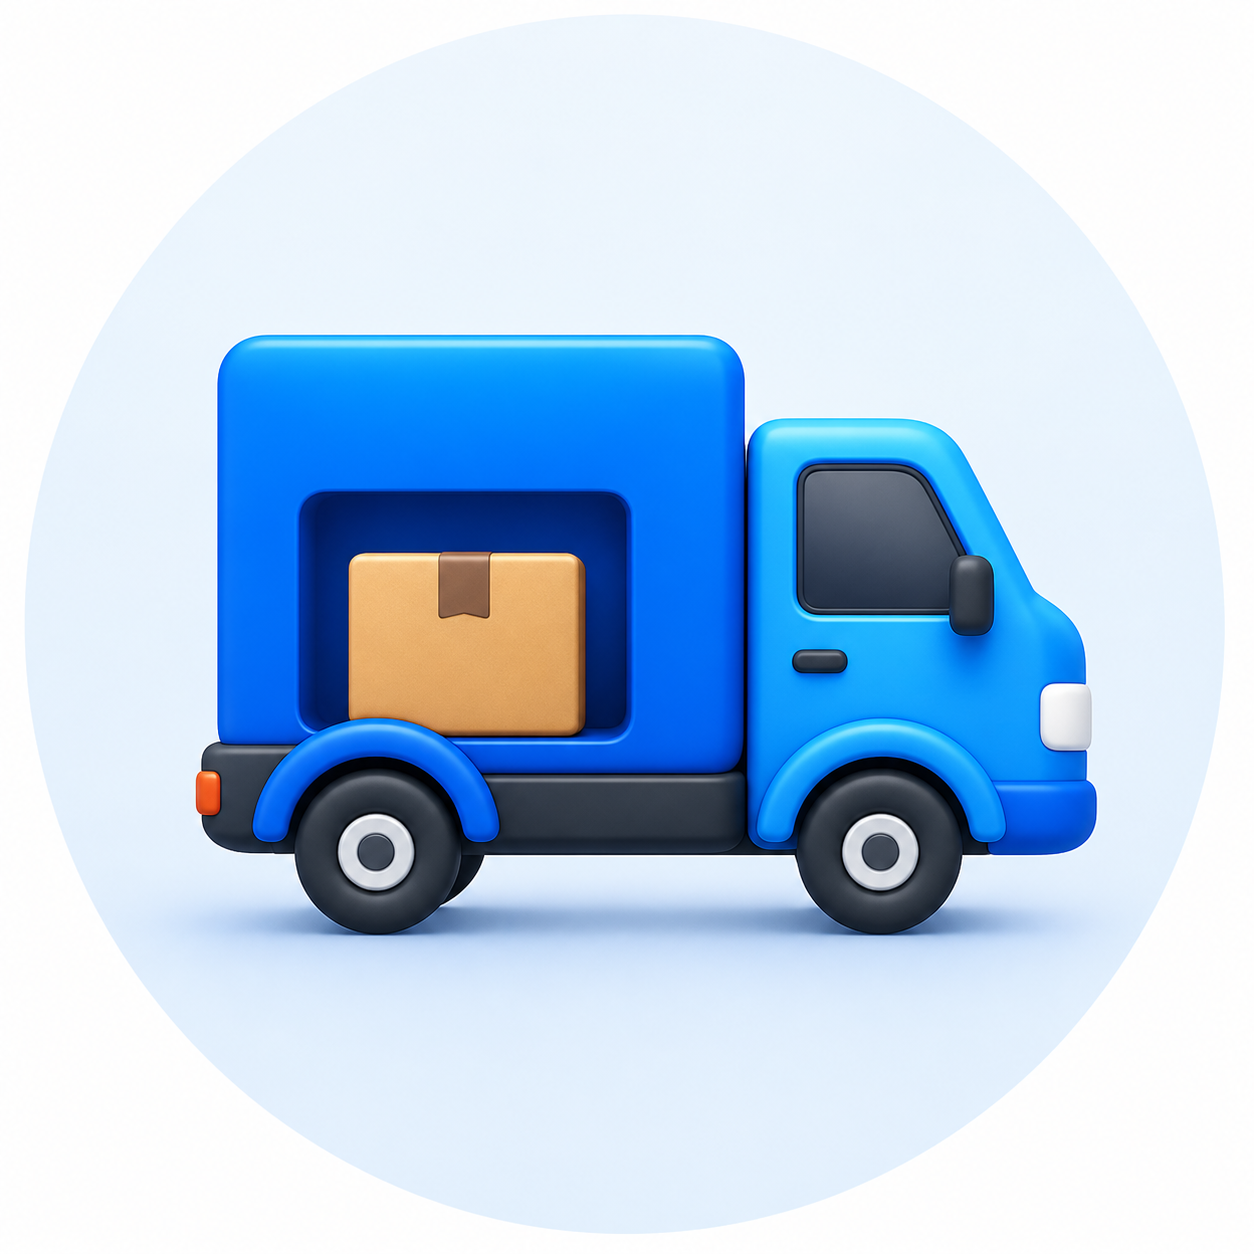
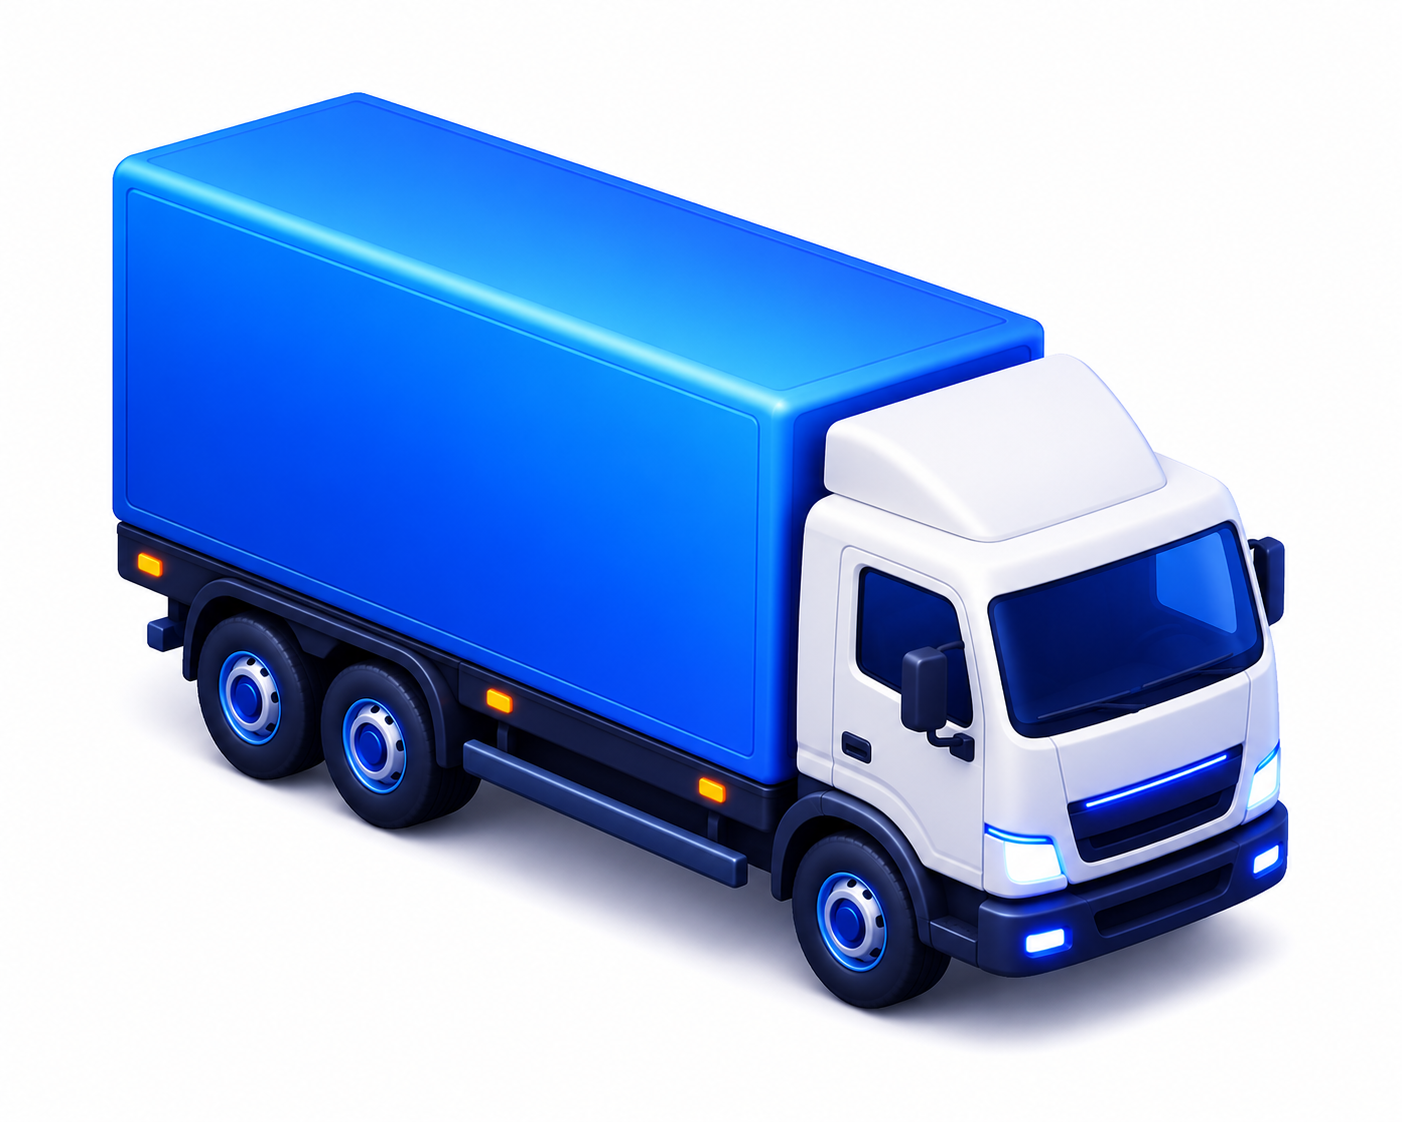
imprOve chwi design

diff --git a/lib/src/features/home/pages/home_page.dart b/lib/src/features/home/pages/home_page.dart
@@ -23,10 +23,10 @@ class _HomePageState extends State<HomePage> {
   Timer? _bannerTimer;
 
   final List<String> _banners = [
-    'assets/imagesss/IMG_0046.PNG', // 0 - Parcel (first)
+    'assets/imagesss/rafik-secure-tracking-banner.png',
+    'assets/imagesss/IMG_0046.PNG',
     'assets/imagesss/rafik-port-delivery-banner.png',
     'assets/imagesss/rafik-nationwide-delivery-banner.png',
-    'assets/imagesss/rafik-secure-tracking-banner.png',
   ];
 
   @override
@@ -257,6 +257,14 @@ class _HomePageState extends State<HomePage> {
                               },
                             ),
                             _buildServiceItem(
+                              'assets/imagesss/IMG_0080.PNG',
+                              'Fourgon',
+                            ),
+                            _buildServiceItem(
+                              'assets/imagesss/IMG_0044.PNG',
+                              'Colis',
+                            ),
+                            _buildServiceItem(
                               'assets/imagesss/food icon.PNG',
                               'Food',
                               onTap: () {
@@ -268,6 +276,12 @@ class _HomePageState extends State<HomePage> {
                                 );
                               },
                             ),
+                          ],
+                        ),
+                        const SizedBox(height: 20),
+                        Row(
+                          crossAxisAlignment: CrossAxisAlignment.start,
+                          children: [
                             _buildServiceItem(
                               'assets/imagesss/IMG_0038.PNG',
                               'Taxi',
@@ -285,19 +299,9 @@ class _HomePageState extends State<HomePage> {
                               'assets/imagesss/IMG_0039.PNG',
                               'Supermarket',
                             ),
-                          ],
-                        ),
-                        const SizedBox(height: 20),
-                        Row(
-                          crossAxisAlignment: CrossAxisAlignment.start,
-                          children: [
                             _buildServiceItem(
                               'assets/imagesss/IMG_0040.PNG',
                               'Home Service',
-                            ),
-                            _buildServiceItem(
-                              'assets/imagesss/IMG_0044.PNG',
-                              'Parcel\nDelivery',
                             ),
                             _buildServiceItem(
                               'assets/imagesss/IMG_0041.PNG',
@@ -312,10 +316,6 @@ class _HomePageState extends State<HomePage> {
                                 );
                               },
                             ),
-                            _buildServiceItem(
-                              'assets/imagesss/IMG_0042.PNG',
-                              'Bricolage\n(DIY)',
-                            ),
                           ],
                         ),
                         const SizedBox(height: 20),
@@ -323,11 +323,14 @@ class _HomePageState extends State<HomePage> {
                           crossAxisAlignment: CrossAxisAlignment.start,
                           children: [
                             _buildServiceItem(
+                              'assets/imagesss/IMG_0042.PNG',
+                              'Bricolage\n(DIY)',
+                            ),
+                            _buildServiceItem(
                               'assets/imagesss/IMG_0045.PNG',
                               'Plumbing',
                             ),
                             _buildServiceItem('', 'More', isCustomMore: true),
-                            const Expanded(child: SizedBox()),
                             const Expanded(child: SizedBox()),
                           ],
                         ),
@@ -779,7 +782,7 @@ class _HomePageState extends State<HomePage> {
 
   Map<String, String>? _bannerText(int index) {
     switch (index) {
-      case 0:
+      case 1:
         return {
           'title': 'توصيل السلع\nبين الولايات',
           'subtitle': 'في كامل الجزائر',

diff --git a/lib/src/features/onboarding/pages/onboarding_page.dart b/lib/src/features/onboarding/pages/onboarding_page.dart
@@ -111,30 +111,40 @@ class _OnboardingPageState extends State<OnboardingPage> {
                     ),
                     Padding(
                       padding: const EdgeInsets.fromLTRB(30, 16, 30, 12),
-                      child: Column(
-                        mainAxisSize: MainAxisSize.min,
-                        children: [
-                          Text(
-                            _pagesData[index]['title']!,
-                            textAlign: TextAlign.center,
-                            style: const TextStyle(
-                              fontSize: 30,
-                              fontWeight: FontWeight.w900,
-                              color: AppColors.textPrimary,
-                              height: 1.08,
+                      child: SizedBox(
+                        width: double.infinity,
+                        child: Column(
+                          mainAxisSize: MainAxisSize.min,
+                          crossAxisAlignment: CrossAxisAlignment.center,
+                          children: [
+                            SizedBox(
+                              width: double.infinity,
+                              child: Text(
+                                _pagesData[index]['title']!,
+                                textAlign: TextAlign.center,
+                                style: const TextStyle(
+                                  fontSize: 30,
+                                  fontWeight: FontWeight.w900,
+                                  color: AppColors.textPrimary,
+                                  height: 1.08,
+                                ),
+                              ),
                             ),
-                          ),
-                          const SizedBox(height: 16),
-                          Text(
-                            _pagesData[index]['description']!,
-                            textAlign: TextAlign.center,
-                            style: const TextStyle(
-                              fontSize: 15,
-                              height: 1.55,
-                              color: AppColors.textSecondary,
+                            const SizedBox(height: 16),
+                            SizedBox(
+                              width: double.infinity,
+                              child: Text(
+                                _pagesData[index]['description']!,
+                                textAlign: TextAlign.center,
+                                style: const TextStyle(
+                                  fontSize: 15,
+                                  height: 1.55,
+                                  color: AppColors.textSecondary,
+                                ),
+                              ),
                             ),
-                          ),
-                        ],
+                          ],
+                        ),
                       ),
                     ),
                   ],
